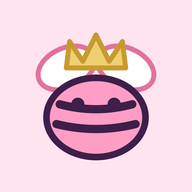
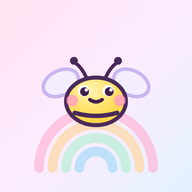
🦄 유니콘 테마 반영 · 왕관 제거 · 노랑 꿀벌 아이콘 갱신

diff --git a/README.md b/README.md
@@ -1,6 +1,6 @@
-# 👑 Rianne's Spelling Bee
+# 🌈 Rianne's Spelling Bee
 
-핑크 왕관 꿀벌과 함께하는 스펠링 게임. 안드로이드 크롬에서 열고 **홈 화면에 추가**하면 앱처럼 실행됩니다.
+파스텔 무지개 유니콘 테마 + 노랑 꿀벌과 함께하는 스펠링 게임. 안드로이드 크롬에서 열고 **홈 화면에 추가**하면 앱처럼 실행됩니다.
 
 - 게임: https://sinaesn.github.io/rianne-spelling-bee/
 - 홈 화면 아이콘: `icon-192.png` / `icon-512.png` (manifest.json)
